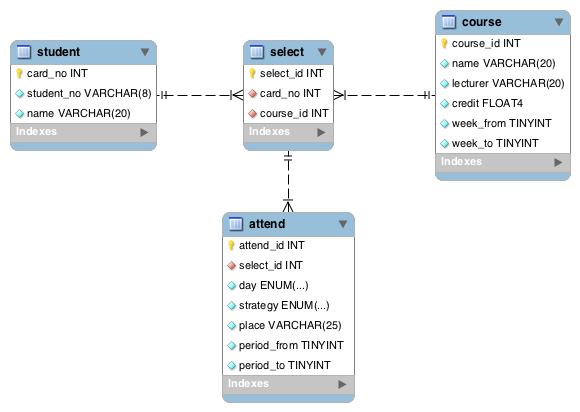
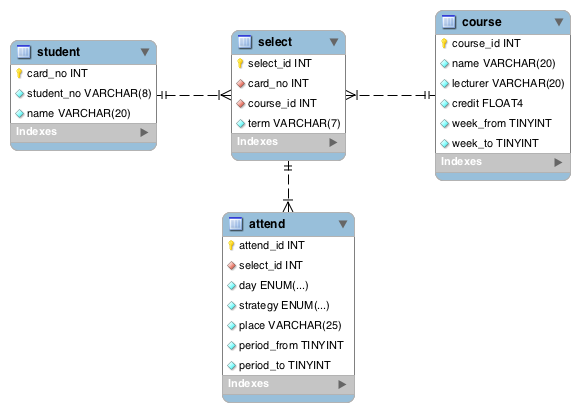
持久层模块部分实现

Changed region(s): [[0.3724, 0.0583, 0.6207, 0.4078]]

diff --git a/src/main/java/cn/edu/seu/herald/ws/dao/CurriculumDataAccessImpl.java b/src/main/java/cn/edu/seu/herald/ws/dao/CurriculumDataAccessImpl.java
@@ -1,0 +1,114 @@
+/*
+ * The MIT License
+ *
+ * Copyright 2013 Herald Studio, Southeast University.
+ *
+ * Permission is hereby granted, free of charge, to any person obtaining a copy
+ * of this software and associated documentation files (the "Software"), to deal
+ * in the Software without restriction, including without limitation the rights
+ * to use, copy, modify, merge, publish, distribute, sublicense, and/or sell
+ * copies of the Software, and to permit persons to whom the Software is
+ * furnished to do so, subject to the following conditions:
+ *
+ * The above copyright notice and this permission notice shall be included in
+ * all copies or substantial portions of the Software.
+ *
+ * THE SOFTWARE IS PROVIDED "AS IS", WITHOUT WARRANTY OF ANY KIND, EXPRESS OR
+ * IMPLIED, INCLUDING BUT NOT LIMITED TO THE WARRANTIES OF MERCHANTABILITY,
+ * FITNESS FOR A PARTICULAR PURPOSE AND NONINFRINGEMENT. IN NO EVENT SHALL THE
+ * AUTHORS OR COPYRIGHT HOLDERS BE LIABLE FOR ANY CLAIM, DAMAGES OR OTHER
+ * LIABILITY, WHETHER IN AN ACTION OF CONTRACT, TORT OR OTHERWISE, ARISING FROM,
+ * OUT OF OR IN CONNECTION WITH THE SOFTWARE OR THE USE OR OTHER DEALINGS IN
+ * THE SOFTWARE.
+ */
+package cn.edu.seu.herald.ws.dao;
+
+import cn.edu.seu.herald.ws.api.Course;
+import cn.edu.seu.herald.ws.api.Curriculum;
+import cn.edu.seu.herald.ws.api.Period;
+import java.sql.Connection;
+import java.sql.PreparedStatement;
+import java.sql.ResultSet;
+import java.sql.SQLException;
+import java.util.LinkedList;
+import java.util.List;
+import java.util.logging.Level;
+import java.util.logging.Logger;
+import javax.sql.DataSource;
+
+/**
+ *
+ * @author rAy <predator.ray@gmail.com>
+ */
+public class CurriculumDataAccessImpl
+        extends AbstractDataAccess
+        implements CurriculumDataAccess {
+
+    private static final Logger LOGGER = Logger.getLogger(
+            CurriculumDataAccessImpl.class.getName());
+
+    public CurriculumDataAccessImpl(DataSource dataSource) {
+        super(dataSource);
+    }
+
+    private static final String GET_COURSES =
+            "SELECT * FROM `course` WHERE course_id IN ("
+            + "SELECT course_id FROM `select` WHERE card_no=? "
+            + "AND term=(SELECT MAX(term) FROM `select`));";
+    private static final String GET_ATTENDS = null;
+    @Override
+    public Curriculum getCurriculum(String cardNumber)
+            throws DataAccessException {
+        int cardNo = Integer.valueOf(cardNumber);
+        Connection connection = getConnection();
+        try {
+            PreparedStatement ps4Courses =
+                    connection.prepareStatement(GET_COURSES);
+            ps4Courses.setInt(1, cardNo);
+            ResultSet rs = ps4Courses.executeQuery();
+            List<Course> courses = getCoursesFromResultSet(rs);
+            ps4Courses.close();
+
+            PreparedStatement ps4Schedules =
+                    connection.prepareStatement(GET_ATTENDS);
+            // TODO get schdules
+        } catch (SQLException ex) {
+            LOGGER.log(Level.SEVERE, ex.getMessage(), ex);
+            throw new DataAccessException(ex);
+        } finally {
+            closeConnection(connection);
+        }
+        throw new UnsupportedOperationException("Not supported yet.");
+    }
+
+    @Override
+    public Curriculum getCurriculum(String cardNumber, String term)
+            throws DataAccessException {
+        throw new UnsupportedOperationException("Not supported yet.");
+    }
+
+    private Course getCourseFromResultSet(ResultSet rs) throws SQLException {
+        String courseName = rs.getString("course_name");
+        String lecturer = rs.getString("lecturer");
+        double credit = rs.getDouble("credit");
+        int weekFrom = rs.getInt("week_from");
+        int weekTo = rs.getInt("week_to");
+        Period p = new Period(weekFrom, weekTo);
+        Course course = new Course();
+        course.setName(courseName);
+        course.setCredit(credit);
+        course.setLecturer(lecturer);
+        course.setWeek(p);
+        return course;
+    }
+
+    private List<Course> getCoursesFromResultSet(ResultSet rs)
+            throws SQLException {
+        List<Course> courses = new LinkedList<Course>();
+        while (rs.next()) {
+            Course course = getCourseFromResultSet(rs);
+            courses.add(course);
+        }
+        return courses;
+    }
+}

diff --git a/src/main/java/cn/edu/seu/herald/ws/dao/AbstractDataAccess.java b/src/main/java/cn/edu/seu/herald/ws/dao/AbstractDataAccess.java
@@ -23,16 +23,36 @@
  */
 package cn.edu.seu.herald.ws.dao;
 
-import cn.edu.seu.herald.ws.api.Curriculum;
+import java.sql.Connection;
+import java.sql.SQLException;
+import javax.sql.DataSource;
 
 /**
  *
  * @author rAy <predator.ray@gmail.com>
  */
-public interface CurriculumDataAccess {
+abstract class AbstractDataAccess {
 
-    Curriculum getCurriculum(String cardNumber) throws DataAccessException;
+    private DataSource dataSource;
 
-    Curriculum getCurriculum(String cardNumber, String term)
-            throws DataAccessException;
+    AbstractDataAccess(DataSource dataSource) {
+        this.dataSource = dataSource;
+    }
+
+    protected Connection getConnection() throws DataAccessException {
+        try {
+            return dataSource.getConnection();
+        } catch (SQLException ex) {
+            throw new DataAccessException(ex);
+        }
+    }
+
+    protected void closeConnection(Connection connection)
+            throws DataAccessException {
+        try {
+            connection.close();
+        } catch (SQLException ex) {
+            throw new DataAccessException(ex);
+        }
+    }
 }

diff --git a/src/main/java/cn/edu/seu/herald/ws/dao/DataAccessException.java b/src/main/java/cn/edu/seu/herald/ws/dao/DataAccessException.java
@@ -23,16 +23,17 @@
  */
 package cn.edu.seu.herald.ws.dao;
 
-import cn.edu.seu.herald.ws.api.Curriculum;
-
 /**
  *
  * @author rAy <predator.ray@gmail.com>
  */
-public interface CurriculumDataAccess {
+public class DataAccessException extends RuntimeException {
 
-    Curriculum getCurriculum(String cardNumber) throws DataAccessException;
+    public DataAccessException() {
+        super("Data access exception occurred.");
+    }
 
-    Curriculum getCurriculum(String cardNumber, String term)
-            throws DataAccessException;
+    public DataAccessException(Exception cause) {
+        super("Data access exception occurred.", cause);
+    }
 }
